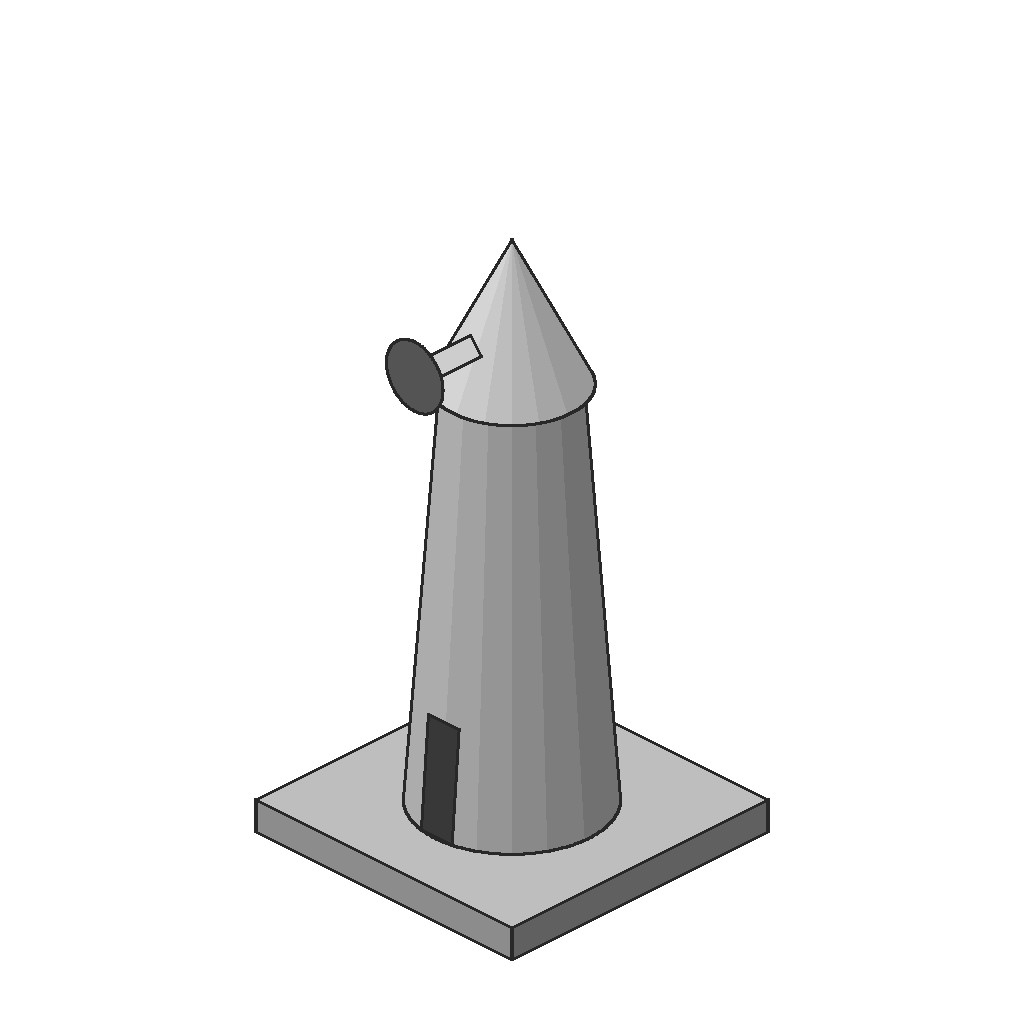
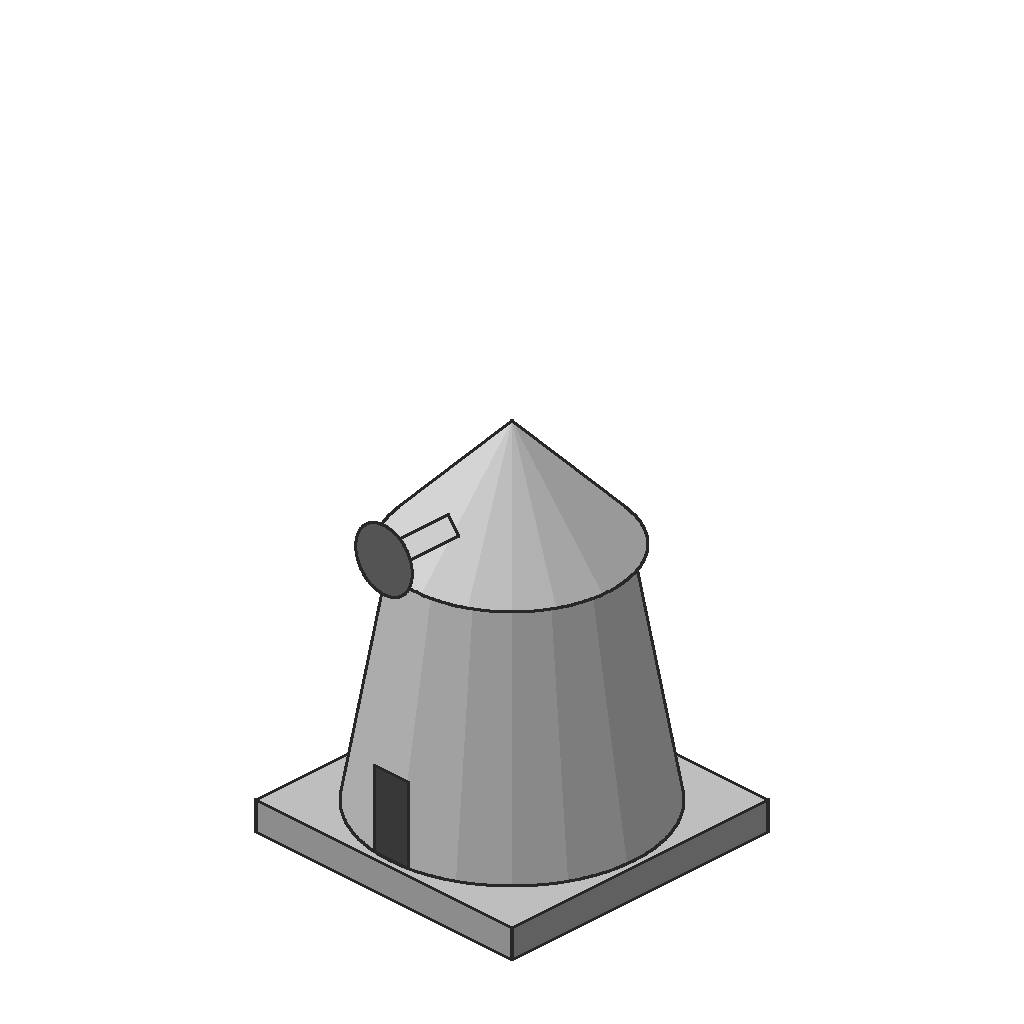
Building guides: the windmill guide keeps the windmill's size, with a true door
The tower is sized to the windmill the game draws today (structures/windmill as assetScale.ts
scales it): the apex 51.4 px above the ground against the picture's 50, 43 px across the foot
(radius 0.475 tile, 0.33 under the cap), a cone cap 15.4 px high. The door is 2.1 m by 1.0 m,
10.8 px beside the 9 px person, plumb on the +y face at the tower's foot. The stub and hub sit at
the cap's new height; the hub file says the sails' radius, 40 px, which leaves the lowest tip 7.4 px
(1.4 m) above the ground. Tests pin the height and foot width against the shipped atlas within 5%,
the door, the hub's agreement with the drawn stub and the foot ellipse.

Claude-Session: https://claude.ai/code/session_01PhZXSrZ8qdradU8ZMK8kT3

Changed region(s): [[0.3125, 0.2188, 0.6875, 0.875]]

diff --git a/docs/art-direction/building-production.md b/docs/art-direction/building-production.md
@@ -273,7 +273,10 @@ Measured on the first hundred pictures. These are the reasons for the rules abov
   only: `guides/windmill-r0.png`, a round tower under a cone cap with its windshaft stub along tile
   +y; `windmill-r0-hub.json`, the hub, the shaft's direction, the door and the affine of the sail
   cross into the camera; and `windmill-sails-face.png`, the cross seen face on. The queue does not
-  name them: they are handed to the painter by hand.
+  name them: they are handed to the painter by hand. The tower is the size of the windmill the game
+  draws today (a cone cap 51 px above the ground, 43 px across the foot), the door is 2.1 m by 1.0 m
+  (10.8 px beside the 9 px, 1.75 m person) and the sails' radius is 40 px, so that the lowest tip
+  clears the ground by more than a metre.
 - The prompts: only in `families.json`. `shared` is the same for every picture; `references`
   says what each attached picture is for; `views` names the walls of each view.
 - The camera limit: `FIT.camera`. Then `recheck`.
